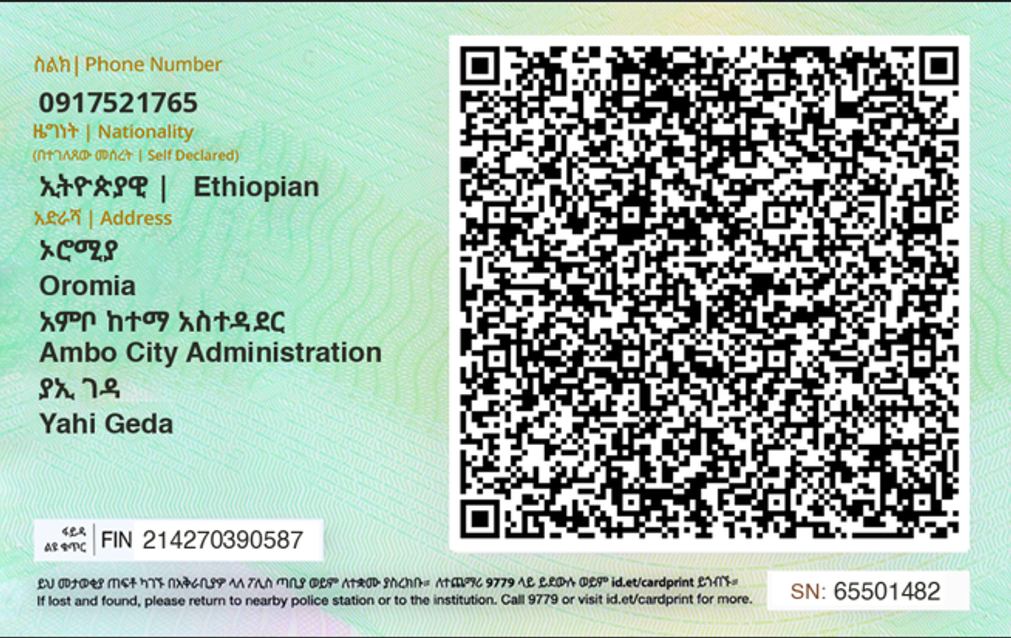
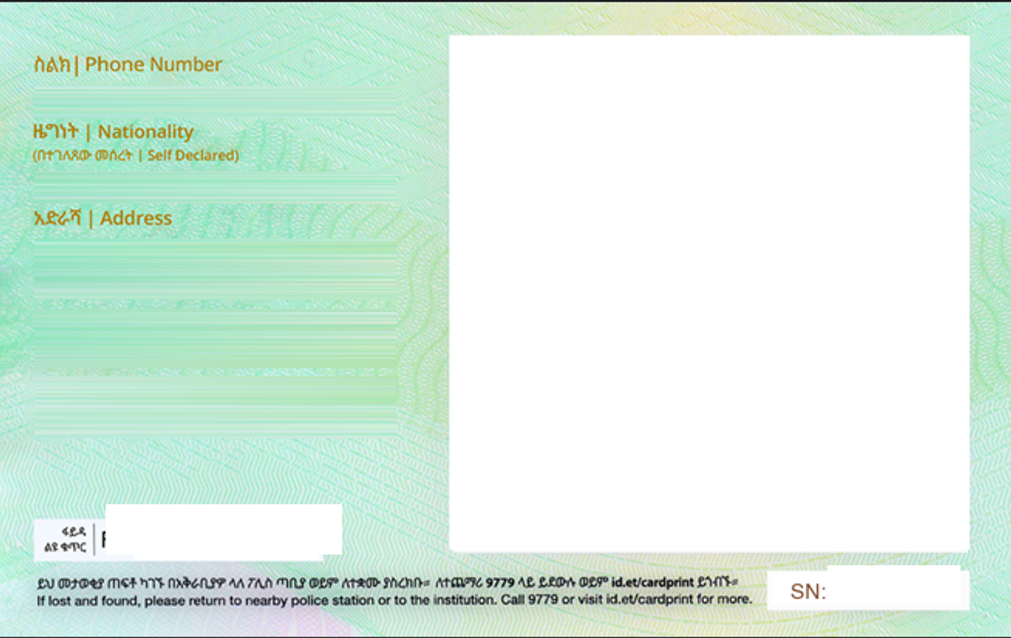
fix(landscape): eliminate double text, photo ghosting, and tape artifacts with pristine blank templates and sub-pixel coordinates

diff --git a/lib/pdf/generate-landscape.ts b/lib/pdf/generate-landscape.ts
@@ -249,7 +249,7 @@ export async function renderFrontCardToCanvas(data: EthiopianIdData): Promise<HT
   ctx.imageSmoothingEnabled = true;
   ctx.imageSmoothingQuality = "high";
 
-  // 1. Draw authentic high-resolution template background
+  // 1. Draw authentic high-resolution pristine blank template background
   try {
     const templateImg = await loadImage("/assets/card-front-template.png");
     ctx.drawImage(templateImg, 0, 0, CANVAS_WIDTH, CANVAS_HEIGHT);
@@ -257,88 +257,62 @@ export async function renderFrontCardToCanvas(data: EthiopianIdData): Promise<HT
     console.warn("Could not load front template:", err);
   }
 
-  // 2. Clear previous text values strip with authentic gradient patch
-  const textGrad = ctx.createLinearGradient(345, 0, 740, 0);
-  textGrad.addColorStop(0, "rgba(215, 245, 237, 0.98)");
-  textGrad.addColorStop(0.5, "rgba(240, 249, 236, 0.98)");
-  textGrad.addColorStop(1, "rgba(248, 245, 218, 0.98)");
-
-  ctx.fillStyle = textGrad;
-  // Clear Name strip
-  drawRoundedRect(ctx, 345, 172, 395, 68, 4);
-  ctx.fill();
-  // Clear DOB strip
-  drawRoundedRect(ctx, 345, 286, 395, 34, 4);
-  ctx.fill();
-  // Clear Sex strip
-  drawRoundedRect(ctx, 345, 366, 395, 34, 4);
-  ctx.fill();
-  // Clear Expiry strip
-  drawRoundedRect(ctx, 345, 446, 395, 34, 4);
-  ctx.fill();
-
-  // 3. Draw extracted demographic text
-  ctx.fillStyle = "#020617";
-  ctx.font = "bold 26px 'Noto Sans Ethiopic', sans-serif";
-  ctx.fillText(data.fullNameAmharic, 350, 194);
-  ctx.font = "bold 24px 'Inter', sans-serif";
-  ctx.fillText(data.fullNameEnglish, 350, 224);
-
-  const dobGregFormatted = formatGregorianDate(data.dateOfBirthGreg);
-  ctx.font = "bold 23px 'Inter', sans-serif";
-  ctx.fillText(`${data.dateOfBirthEth} | ${dobGregFormatted}`, 350, 308);
-
-  ctx.font = "bold 23px 'Noto Sans Ethiopic', 'Inter', sans-serif";
-  ctx.fillText(`${data.sexAmharic} | ${data.sexEnglish}`, 350, 388);
-
-  const expiryGregFormatted = formatGregorianDate(data.dateOfExpiryGreg);
-  ctx.font = "bold 23px 'Inter', sans-serif";
-  ctx.fillText(`${data.dateOfExpiryEth} | ${expiryGregFormatted}`, 350, 468);
-
-  // 4. Primary Portrait Photo
+  // 2. Primary Portrait Photo (fits photo slot perfectly: x: 73, y: 138, w: 302, h: 430)
   if (data.photoUrl) {
     try {
       const photoImg = await loadImage(data.photoUrl);
       ctx.save();
-      drawRoundedRect(ctx, 52, 142, 250, 325, 8);
+      drawRoundedRect(ctx, 73, 138, 302, 430, 10);
       ctx.clip();
-      ctx.drawImage(photoImg, 52, 142, 250, 325);
+      ctx.drawImage(photoImg, 73, 138, 302, 430);
       ctx.restore();
     } catch {
       // Photo error fallback
     }
   }
 
-  // 5. White Barcode Container with extracted FAN and Code128 bars
-  const barcodeBoxX = 410;
-  const barcodeBoxY = 502;
-  const barcodeBoxW = 320;
-  const barcodeBoxH = 92;
+  // 3. Extracted demographic text positioned with exact pixel accuracy
+  ctx.fillStyle = "#020617";
+  ctx.font = "bold 26px 'Noto Sans Ethiopic', sans-serif";
+  ctx.fillText(data.fullNameAmharic, 418, 207);
 
-  ctx.fillStyle = "#ffffff";
-  drawRoundedRect(ctx, barcodeBoxX, barcodeBoxY, barcodeBoxW, barcodeBoxH, 4);
-  ctx.fill();
-  ctx.strokeStyle = "#cbd5e1";
-  ctx.lineWidth = 1;
-  ctx.stroke();
+  ctx.font = "bold 24px 'Inter', sans-serif";
+  ctx.fillText(data.fullNameEnglish, 418, 250);
+
+  const dobGregFormatted = formatGregorianDate(data.dateOfBirthGreg);
+  ctx.font = "bold 23px 'Inter', sans-serif";
+  ctx.fillText(`${data.dateOfBirthEth} | ${dobGregFormatted}`, 418, 334);
+
+  ctx.font = "bold 23px 'Noto Sans Ethiopic', 'Inter', sans-serif";
+  ctx.fillText(`${data.sexAmharic} | ${data.sexEnglish}`, 418, 405);
+
+  const expiryGregFormatted = formatGregorianDate(data.dateOfExpiryGreg);
+  ctx.font = "bold 23px 'Inter', sans-serif";
+  ctx.fillText(`${data.dateOfExpiryEth} | ${expiryGregFormatted}`, 418, 468);
+
+  // 4. White Barcode Container with extracted FAN and Code128 bars
+  const barcodeBoxX = 456;
+  const barcodeBoxY = 496;
+  const barcodeBoxW = 328;
+  const barcodeBoxH = 96;
 
   ctx.fillStyle = "#020617";
-  ctx.font = "900 21px monospace";
+  ctx.font = "900 22px monospace";
   ctx.textAlign = "center";
-  ctx.fillText(data.fanNumber, barcodeBoxX + barcodeBoxW / 2, barcodeBoxY + 24);
+  ctx.fillText(data.fanNumber, barcodeBoxX + barcodeBoxW / 2, barcodeBoxY + 26);
   ctx.textAlign = "left";
 
-  drawCode128Barcode(ctx, data.fanNumber, barcodeBoxX + 10, barcodeBoxY + 34, barcodeBoxW - 20, 48);
+  drawCode128Barcode(ctx, data.fanNumber, barcodeBoxX + 10, barcodeBoxY + 34, barcodeBoxW - 20, 52);
 
-  // 6. Ghost Photo on bottom right
+  // 5. Ghost Photo on bottom right
   if (data.photoUrl) {
     try {
       const ghostImg = await loadImage(data.photoUrl);
       ctx.save();
       ctx.globalAlpha = 0.75;
-      drawRoundedRect(ctx, 845, 495, 82, 105, 4);
+      drawRoundedRect(ctx, 810, 450, 145, 155, 8);
       ctx.clip();
-      ctx.drawImage(ghostImg, 845, 495, 82, 105);
+      ctx.drawImage(ghostImg, 810, 450, 145, 155);
       ctx.restore();
     } catch {
       // Ghost fallback
@@ -357,7 +331,7 @@ export async function renderBackCardToCanvas(data: EthiopianIdData): Promise<HTM
   ctx.imageSmoothingEnabled = true;
   ctx.imageSmoothingQuality = "high";
 
-  // 1. Draw authentic high-resolution template background
+  // 1. Draw authentic high-resolution pristine blank template background
   try {
     const templateImg = await loadImage("/assets/card-back-template.png");
     ctx.drawImage(templateImg, 0, 0, CANVAS_WIDTH, CANVAS_HEIGHT);
@@ -365,64 +339,44 @@ export async function renderBackCardToCanvas(data: EthiopianIdData): Promise<HTM
     console.warn("Could not load back template:", err);
   }
 
-  // 2. Clear dynamic text strips with authentic gradient patch
-  const backGrad = ctx.createLinearGradient(40, 0, 430, 0);
-  backGrad.addColorStop(0, "rgba(215, 245, 237, 0.98)");
-  backGrad.addColorStop(1, "rgba(230, 250, 240, 0.98)");
-
-  ctx.fillStyle = backGrad;
-  // Clear Phone strip
-  drawRoundedRect(ctx, 40, 70, 390, 34, 4);
-  ctx.fill();
-  // Clear Nationality strip
-  drawRoundedRect(ctx, 40, 164, 390, 34, 4);
-  ctx.fill();
-  // Clear Address strip
-  drawRoundedRect(ctx, 40, 242, 390, 180, 4);
-  ctx.fill();
-
-  // 3. Draw extracted text
+  // 2. Draw extracted text on Left
   ctx.fillStyle = "#020617";
   ctx.font = "bold 25px 'Inter', sans-serif";
-  ctx.fillText(data.phoneNumber, 45, 92);
+  ctx.fillText(data.phoneNumber, 40, 110);
 
   ctx.font = "bold 23px 'Noto Sans Ethiopic', 'Inter', sans-serif";
-  ctx.fillText(`${data.nationalityAmharic} | ${data.nationalityEnglish}`, 45, 186);
+  ctx.fillText(`${data.nationalityAmharic} | ${data.nationalityEnglish}`, 40, 194);
 
   ctx.font = "bold 21px 'Noto Sans Ethiopic', sans-serif";
-  ctx.fillText(data.regionAmharic, 45, 264);
+  ctx.fillText(data.regionAmharic, 40, 258);
   ctx.font = "bold 21px 'Inter', sans-serif";
-  ctx.fillText(data.regionEnglish, 45, 292);
+  ctx.fillText(data.regionEnglish, 40, 293);
 
   ctx.font = "bold 21px 'Noto Sans Ethiopic', sans-serif";
-  ctx.fillText(data.subcityAmharic, 45, 324);
+  ctx.fillText(data.subcityAmharic, 40, 330);
   ctx.font = "bold 21px 'Inter', sans-serif";
-  ctx.fillText(data.subcityEnglish, 45, 352);
+  ctx.fillText(data.subcityEnglish, 40, 359);
 
   ctx.font = "bold 21px 'Noto Sans Ethiopic', sans-serif";
-  ctx.fillText(data.woredaAmharic, 45, 384);
+  ctx.fillText(data.woredaAmharic, 40, 395);
   ctx.font = "bold 21px 'Inter', sans-serif";
-  ctx.fillText(data.woredaEnglish, 45, 412);
+  ctx.fillText(data.woredaEnglish, 40, 430);
 
-  // 4. Clear & Draw FIN digits inside the FIN box
-  ctx.fillStyle = "#ffffff";
-  ctx.fillRect(115, 460, 210, 36);
+  // 3. Draw FIN digits inside the bottom-left white FIN box
   ctx.fillStyle = "#020617";
   ctx.font = "900 22px 'Inter', monospace";
-  ctx.fillText(`FIN  ${data.finNumber}`, 120, 486);
+  ctx.fillText(`FIN  ${data.finNumber}`, 104, 546);
 
-  // 5. Clear & Draw SN inside the SN box
-  ctx.fillStyle = "#ffffff";
-  ctx.fillRect(815, 574, 150, 32);
+  // 4. Draw SN inside the bottom-right white SN badge
   ctx.fillStyle = "#020617";
-  ctx.font = "900 18px 'Inter', monospace";
-  ctx.fillText(data.serialNumber || "65501482", 820, 596);
+  ctx.font = "900 19px 'Inter', monospace";
+  ctx.fillText(data.serialNumber || "65501482", 835, 597);
 
-  // 6. Draw QR code cleanly inside the white QR container
+  // 5. Draw QR code cleanly inside the white QR container (square 490x490)
   const qrSource = data.qrCodeUrl || "/assets/target-qr.png";
   try {
     const qrImg = await loadImage(qrSource);
-    ctx.drawImage(qrImg, 450, 32, 510, 500);
+    ctx.drawImage(qrImg, 462, 47, 490, 490);
   } catch {
     // QR fallback
   }

diff --git a/components/LandscapeCardFront.tsx b/components/LandscapeCardFront.tsx
@@ -30,7 +30,7 @@ export function LandscapeCardFront({ data, className = "" }: LandscapeCardFrontP
 
       {/* 2. Extracted Portrait Photo */}
       {data.photoUrl && (
-        <div className="absolute left-[5.1%] top-[22.2%] w-[24.7%] h-[51%] rounded-lg overflow-hidden shadow-2xs border border-teal-800/15">
+        <div className="absolute left-[7.2%] top-[21.6%] w-[29.9%] h-[67.4%] rounded-lg overflow-hidden shadow-2xs border border-teal-800/15">
           <img
             src={data.photoUrl}
             alt={`Portrait of ${data.fullNameEnglish}`}
@@ -39,50 +39,44 @@ export function LandscapeCardFront({ data, className = "" }: LandscapeCardFrontP
         </div>
       )}
 
-      {/* 3. Dynamic Text Overlays with subtle clean backdrop */}
-      <div className="absolute left-[34.6%] top-[27%] w-[39%] flex flex-col space-y-[0.7%]">
-        <div className="bg-[#D8F8F0]/95 px-1 py-0.5 rounded leading-tight">
-          <p className="text-[12.5px] sm:text-[14px] font-extrabold text-slate-950 tracking-tight">
+      {/* 3. Dynamic Text Overlays directly on pristine background */}
+      <div className="absolute left-[41.3%] top-[28.0%] w-[38%] flex flex-col space-y-[2.2%] leading-tight pointer-events-none">
+        <div>
+          <p className="text-[12.5px] sm:text-[14px] font-extrabold text-slate-950 tracking-tight leading-tight">
             {data.fullNameAmharic}
           </p>
-          <p className="text-[11.5px] sm:text-[13px] font-bold text-slate-900 tracking-tight">
+          <p className="text-[11.5px] sm:text-[13px] font-bold text-slate-900 tracking-tight leading-tight">
             {data.fullNameEnglish}
           </p>
         </div>
 
-        <div className="pt-[1.8%]">
-          <div className="bg-[#D8F8F0]/95 px-1 py-0.5 rounded leading-tight">
-            <p className="text-[11px] sm:text-[12.5px] font-bold text-slate-900">
-              {data.dateOfBirthEth} <span className="font-normal text-slate-400">|</span> {dobGreg}
-            </p>
-          </div>
+        <div className="pt-[4.5%]">
+          <p className="text-[11px] sm:text-[12.5px] font-bold text-slate-900 leading-tight">
+            {data.dateOfBirthEth} <span className="font-normal text-slate-400">|</span> {dobGreg}
+          </p>
         </div>
 
-        <div className="pt-[1.8%]">
-          <div className="bg-[#D8F8F0]/95 px-1 py-0.5 rounded leading-tight">
-            <p className="text-[11px] sm:text-[12.5px] font-bold text-slate-900">
-              {data.sexAmharic} <span className="font-normal text-slate-400">|</span> {data.sexEnglish}
-            </p>
-          </div>
+        <div className="pt-[4.0%]">
+          <p className="text-[11px] sm:text-[12.5px] font-bold text-slate-900 leading-tight">
+            {data.sexAmharic} <span className="font-normal text-slate-400">|</span> {data.sexEnglish}
+          </p>
         </div>
 
-        <div className="pt-[1.8%]">
-          <div className="bg-[#D8F8F0]/95 px-1 py-0.5 rounded leading-tight">
-            <p className="text-[11px] sm:text-[12.5px] font-bold text-slate-900">
-              {data.dateOfExpiryEth} <span className="font-normal text-slate-400">|</span> {expiryGreg}
-            </p>
-          </div>
+        <div className="pt-[3.5%]">
+          <p className="text-[11px] sm:text-[12.5px] font-bold text-slate-900 leading-tight">
+            {data.dateOfExpiryEth} <span className="font-normal text-slate-400">|</span> {expiryGreg}
+          </p>
         </div>
       </div>
 
-      {/* 4. Extracted Barcode & FAN Number */}
-      <div className="absolute left-[40.5%] bottom-[5.8%] w-[31.6%] h-[14.8%]">
+      {/* 4. Extracted Barcode & FAN Number inside white container */}
+      <div className="absolute left-[45.1%] top-[77.7%] w-[32.4%] h-[15.0%]">
         <BarcodeDisplay fanNumber={data.fanNumber} className="w-full h-full" />
       </div>
 
       {/* 5. Extracted Ghost Photo */}
       {data.photoUrl && (
-        <div className="absolute right-[8.4%] bottom-[7.5%] w-[8.1%] h-[16.5%] rounded overflow-hidden opacity-75 shadow-2xs">
+        <div className="absolute left-[80.1%] top-[70.5%] w-[14.3%] h-[24.3%] rounded overflow-hidden opacity-75 shadow-2xs pointer-events-none">
           <img src={data.photoUrl} alt="Ghost portrait" className="w-full h-full object-cover" />
         </div>
       )}

diff --git a/components/LandscapeCardBack.tsx b/components/LandscapeCardBack.tsx
@@ -25,46 +25,42 @@ export function LandscapeCardBack({ data, className = "" }: LandscapeCardBackPro
         draggable={false}
       />
 
-      {/* 2. Dynamic Text Overlays on Left with clean backdrop */}
-      <div className="absolute left-[4.5%] top-[14%] w-[38%] flex flex-col space-y-[1%]">
+      {/* 2. Dynamic Text Overlays on Left directly over pristine background */}
+      <div className="absolute left-[4.0%] top-[14.2%] w-[38%] flex flex-col pointer-events-none">
         {/* Phone */}
-        <div className="bg-[#D8F8F0]/95 px-1 py-0.5 rounded leading-tight">
-          <p className="text-[12px] sm:text-[13.5px] font-bold text-slate-950">
+        <div>
+          <p className="text-[12px] sm:text-[13.5px] font-bold text-slate-950 leading-tight">
             {data.phoneNumber}
           </p>
         </div>
 
         {/* Nationality */}
-        <div className="pt-[6.5%]">
-          <div className="bg-[#D8F8F0]/95 px-1 py-0.5 rounded leading-tight">
-            <p className="text-[11px] sm:text-[12.5px] font-bold text-slate-950">
-              {data.nationalityAmharic} &nbsp;|&nbsp; {data.nationalityEnglish}
-            </p>
-          </div>
+        <div className="pt-[7.5%]">
+          <p className="text-[11px] sm:text-[12.5px] font-bold text-slate-950 leading-tight">
+            {data.nationalityAmharic} &nbsp;|&nbsp; {data.nationalityEnglish}
+          </p>
         </div>
 
         {/* Address */}
-        <div className="pt-[6%]">
-          <div className="bg-[#D8F8F0]/95 px-1 py-0.5 rounded leading-[1.25] text-[10px] sm:text-[11.5px] font-bold text-slate-950">
-            <p>{data.regionAmharic}</p>
-            <p>{data.regionEnglish}</p>
-            <p>{data.subcityAmharic}</p>
-            <p>{data.subcityEnglish}</p>
-            <p>{data.woredaAmharic}</p>
-            <p>{data.woredaEnglish}</p>
-          </div>
+        <div className="pt-[6.5%] space-y-[1px] text-[10px] sm:text-[11.5px] font-bold text-slate-950 leading-[1.25]">
+          <p>{data.regionAmharic}</p>
+          <p>{data.regionEnglish}</p>
+          <p>{data.subcityAmharic}</p>
+          <p>{data.subcityEnglish}</p>
+          <p>{data.woredaAmharic}</p>
+          <p>{data.woredaEnglish}</p>
         </div>
       </div>
 
-      {/* 3. FIN Number inside FIN Box */}
-      <div className="absolute left-[13.5%] bottom-[12.8%] w-[24%] bg-white px-2 py-0.5 rounded flex items-center">
-        <span className="text-[10px] sm:text-[11.5px] font-black tracking-wider text-slate-950">
+      {/* 3. FIN Number inside bottom-left FIN Box */}
+      <div className="absolute left-[10.3%] bottom-[12.2%] w-[24%] flex items-center pointer-events-none">
+        <span className="text-[10.5px] sm:text-[12px] font-black tracking-wider text-slate-950">
           FIN &nbsp;{data.finNumber}
         </span>
       </div>
 
       {/* 4. Extracted QR Code inside QR Frame */}
-      <div className="absolute right-[4.5%] top-[5%] w-[51%] h-[82%] p-1 flex items-center justify-center">
+      <div className="absolute left-[45.7%] top-[7.4%] w-[48.5%] h-[76.8%] flex items-center justify-center pointer-events-none">
         <img
           src={qrSource}
           alt="Identity verification QR code"
@@ -73,8 +69,7 @@ export function LandscapeCardBack({ data, className = "" }: LandscapeCardBackPro
       </div>
 
       {/* 5. SN Number inside SN Badge */}
-      <div className="absolute right-[4.5%] bottom-[4.2%] w-[19%] flex items-center justify-center bg-white px-1.5 py-0.5 rounded shadow-2xs text-[8.5px] sm:text-[9.5px] font-black">
-        <span className="text-red-700 font-black mr-1">SN:</span>
+      <div className="absolute right-[4.2%] bottom-[4.2%] w-[19%] flex items-center justify-end px-1 pointer-events-none text-[8.5px] sm:text-[9.5px] font-black">
         <span className="text-slate-900 font-extrabold">{data.serialNumber || "65501482"}</span>
       </div>
     </div>
